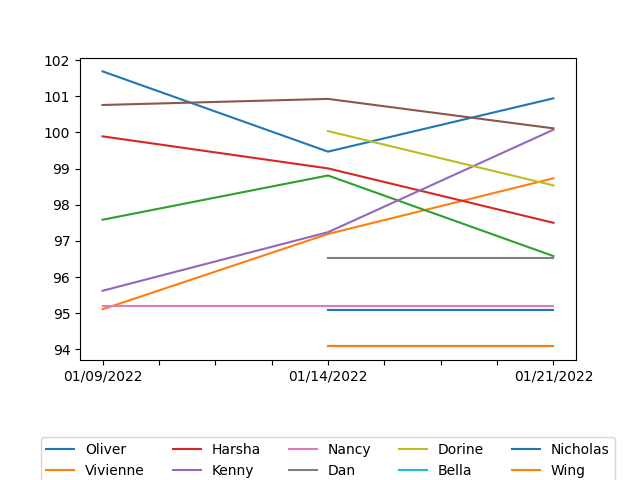
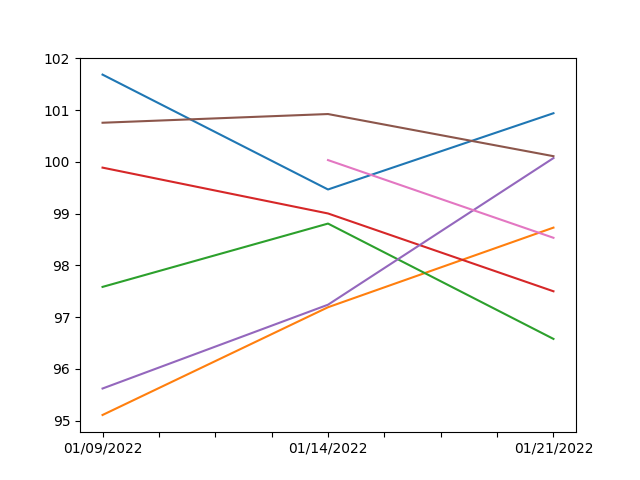
update rankings

diff --git a/parse_results.py b/parse_results.py
@@ -94,6 +94,7 @@ def main():
             if player not in best_game or rating.get_elo() > best_game[player][1]:
                 best_game[player] = (game, rating.get_elo())
 
+    infrequent_players = []  # players with <10 games
     for player, rating in sorted(
             all_ratings.items(),
             key=lambda item: item[1].get_elo(),
@@ -102,6 +103,7 @@ def main():
 | {} | {:.2f} | {} | {} | {:.2f} | {} |'''.format(
         player, rating.get_elo(), rating.wins, rating.losses,
         rating.wins / (rating.wins + rating.losses), best_game[player][0])
+        if rating.wins + rating.losses < 10: infrequent_players.append(player)
 
     chart_df = pd.DataFrame()
     for _, row in all_df.iterrows():
@@ -112,9 +114,10 @@ def main():
         for player, rating in zip(players, ratings):
             chart_df.at[row['date'], player] = rating
     chart_df.ffill(inplace=True)
+    chart_df.drop(columns=infrequent_players,inplace=True)
     chart_df.plot.line().legend(
             loc='lower center', ncol=5, bbox_to_anchor=(0.5, -0.5))
-    plt.subplots_adjust(bottom=0.25)
+    plt.subplots_adjust(bottom=0.1)
     plt.savefig('rankings.png')
 
     markdown += '''
